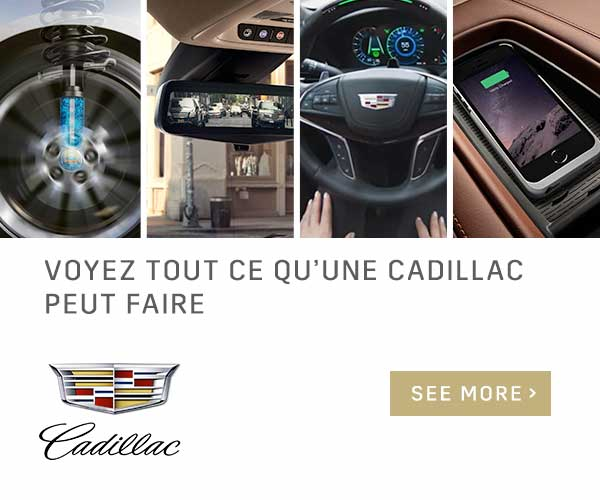
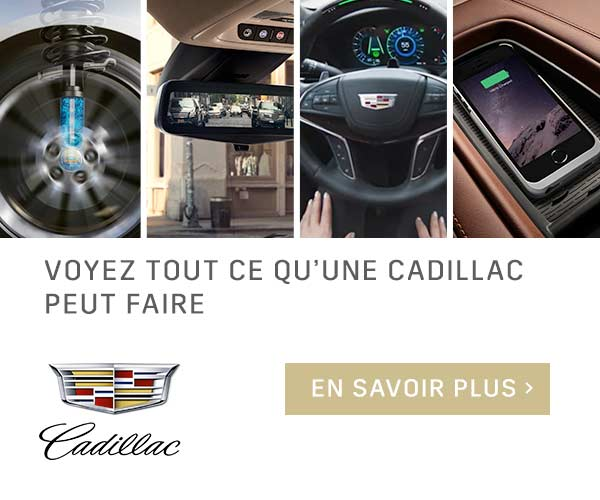
Changed 300x250 FR CTA to french.

Changed region(s): [[0.45, 0.72, 0.93, 0.84]]

diff --git a/app/rich/templates/css/300x250.scss b/app/rich/templates/css/300x250.scss
@@ -91,10 +91,10 @@ html, body {
         }
 
         #cta_trigger {
-            left: 119px;
-            top: 194px;
-            width: 156px;
-            height: 23px;
+            left: 143px;
+            top: 182px;
+            width: 133px;
+            height: 27px;
         }
     }
 }
